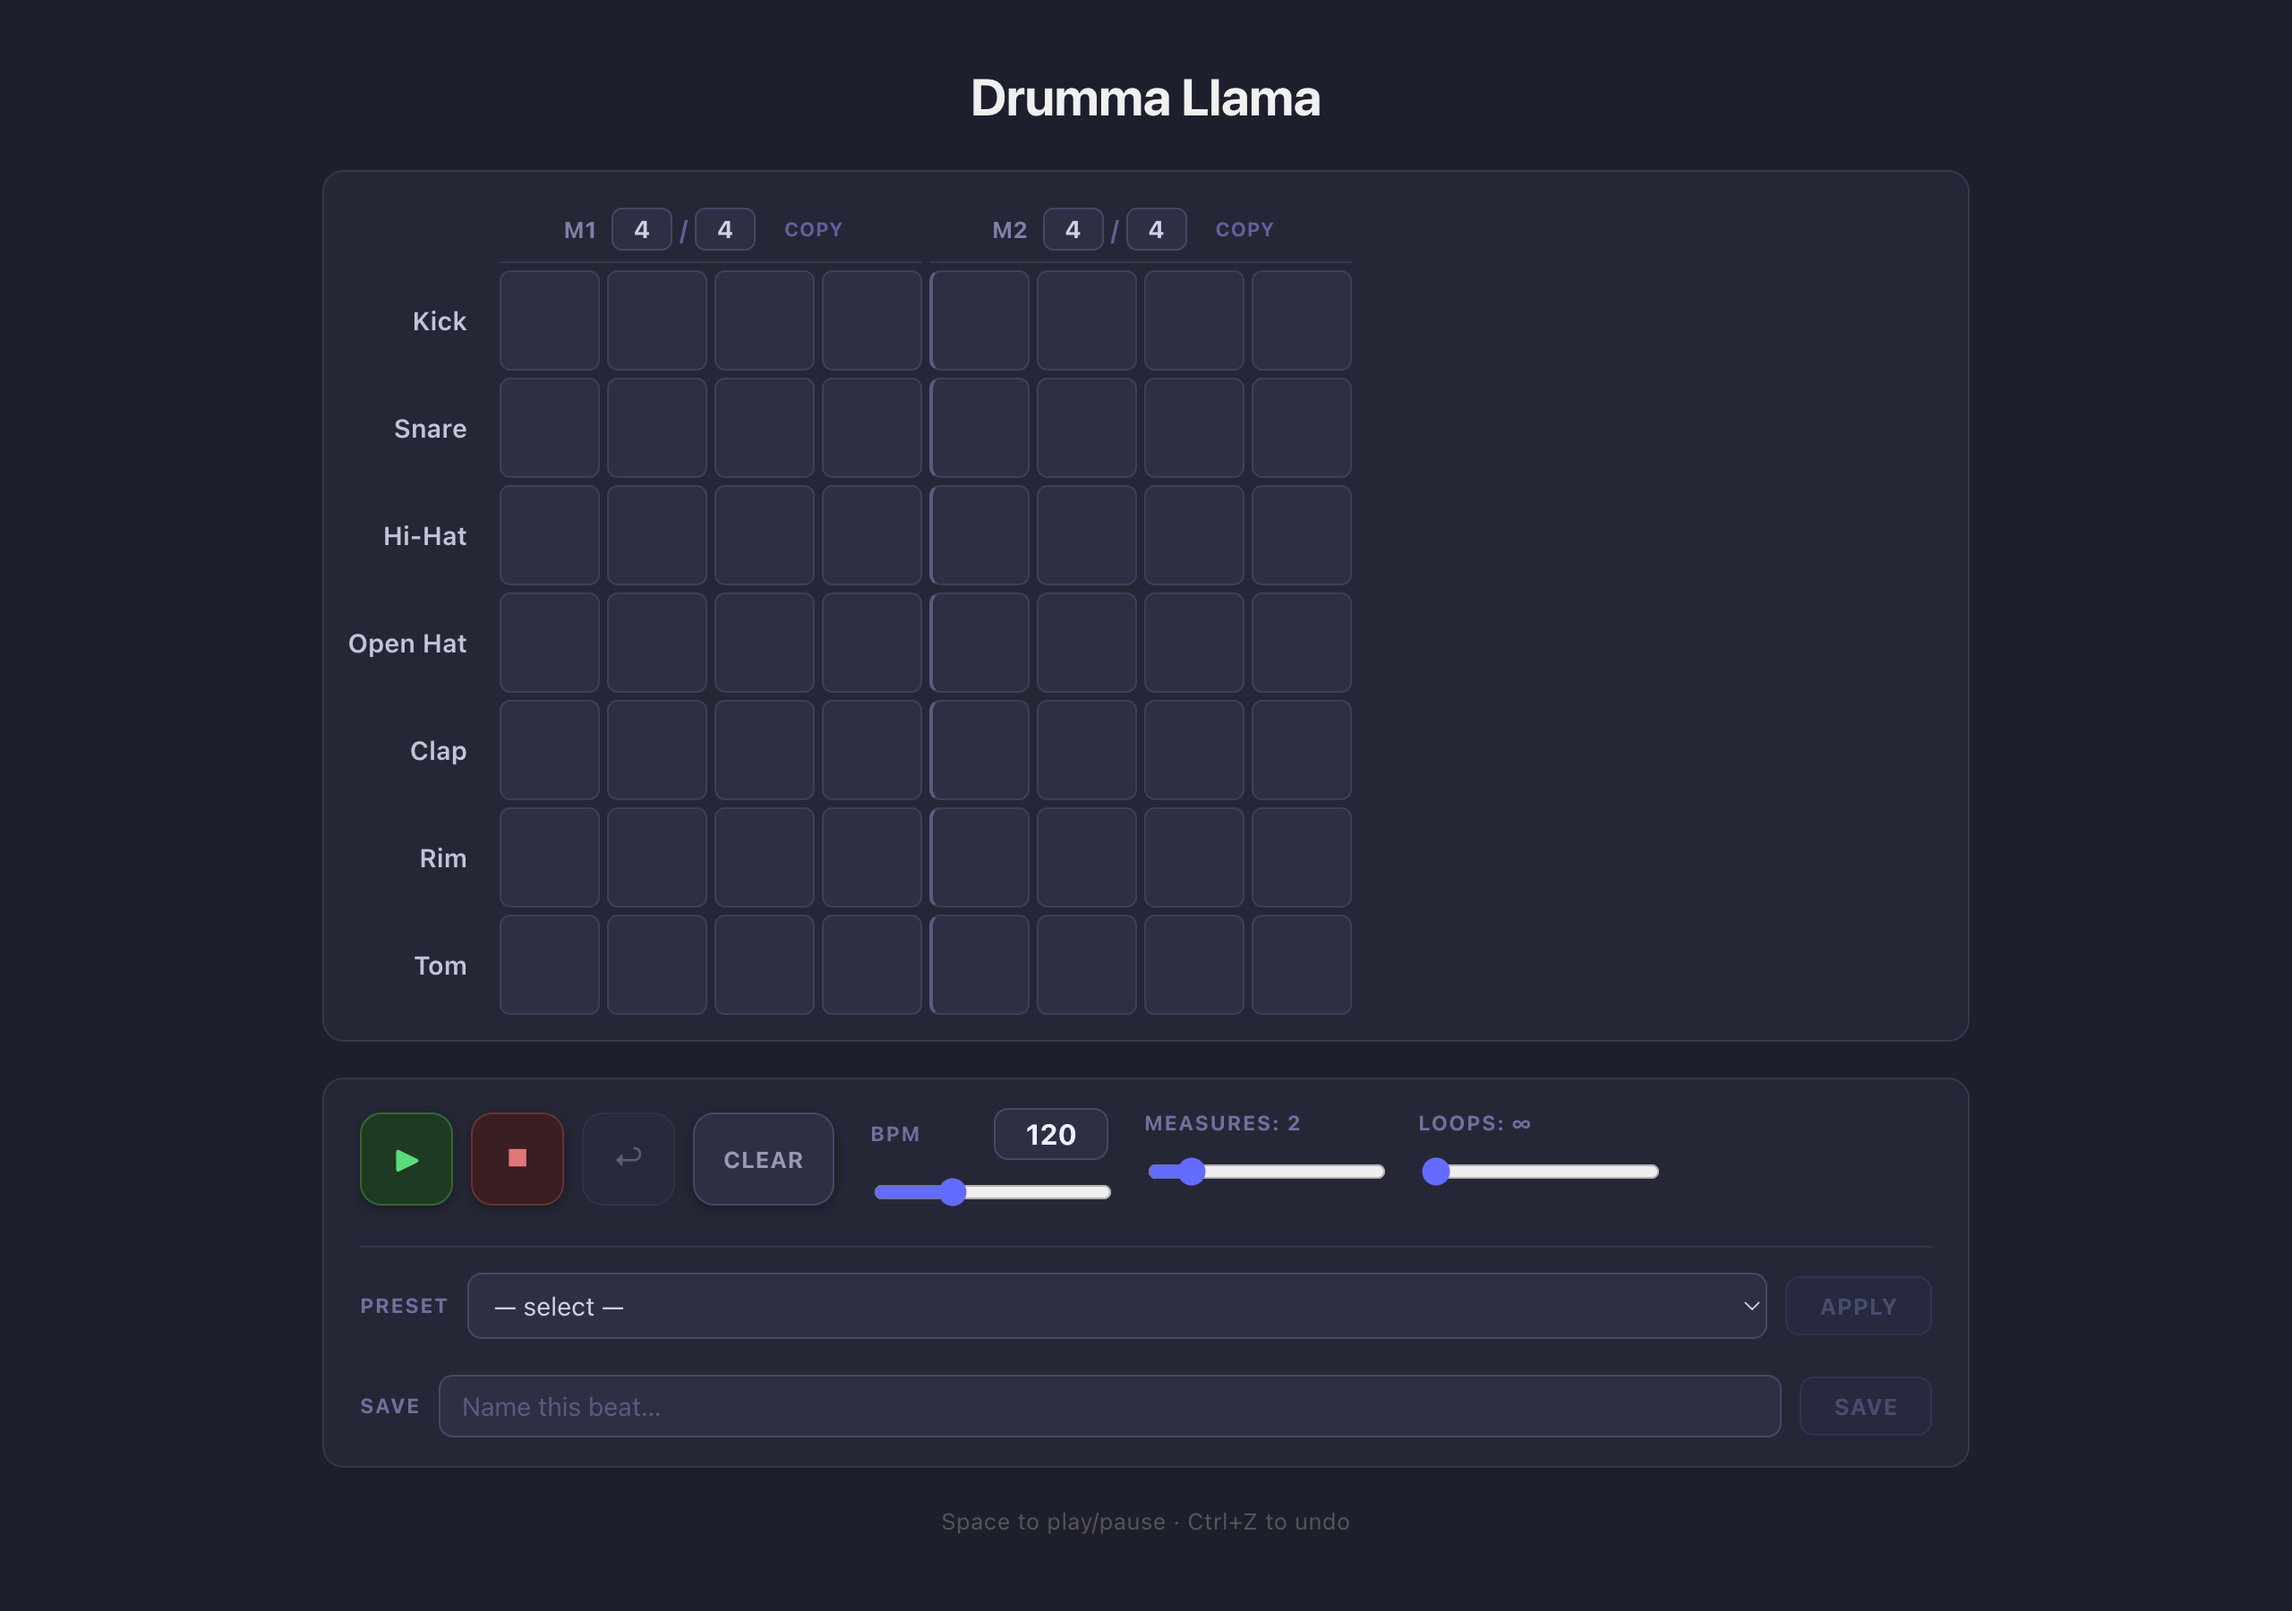
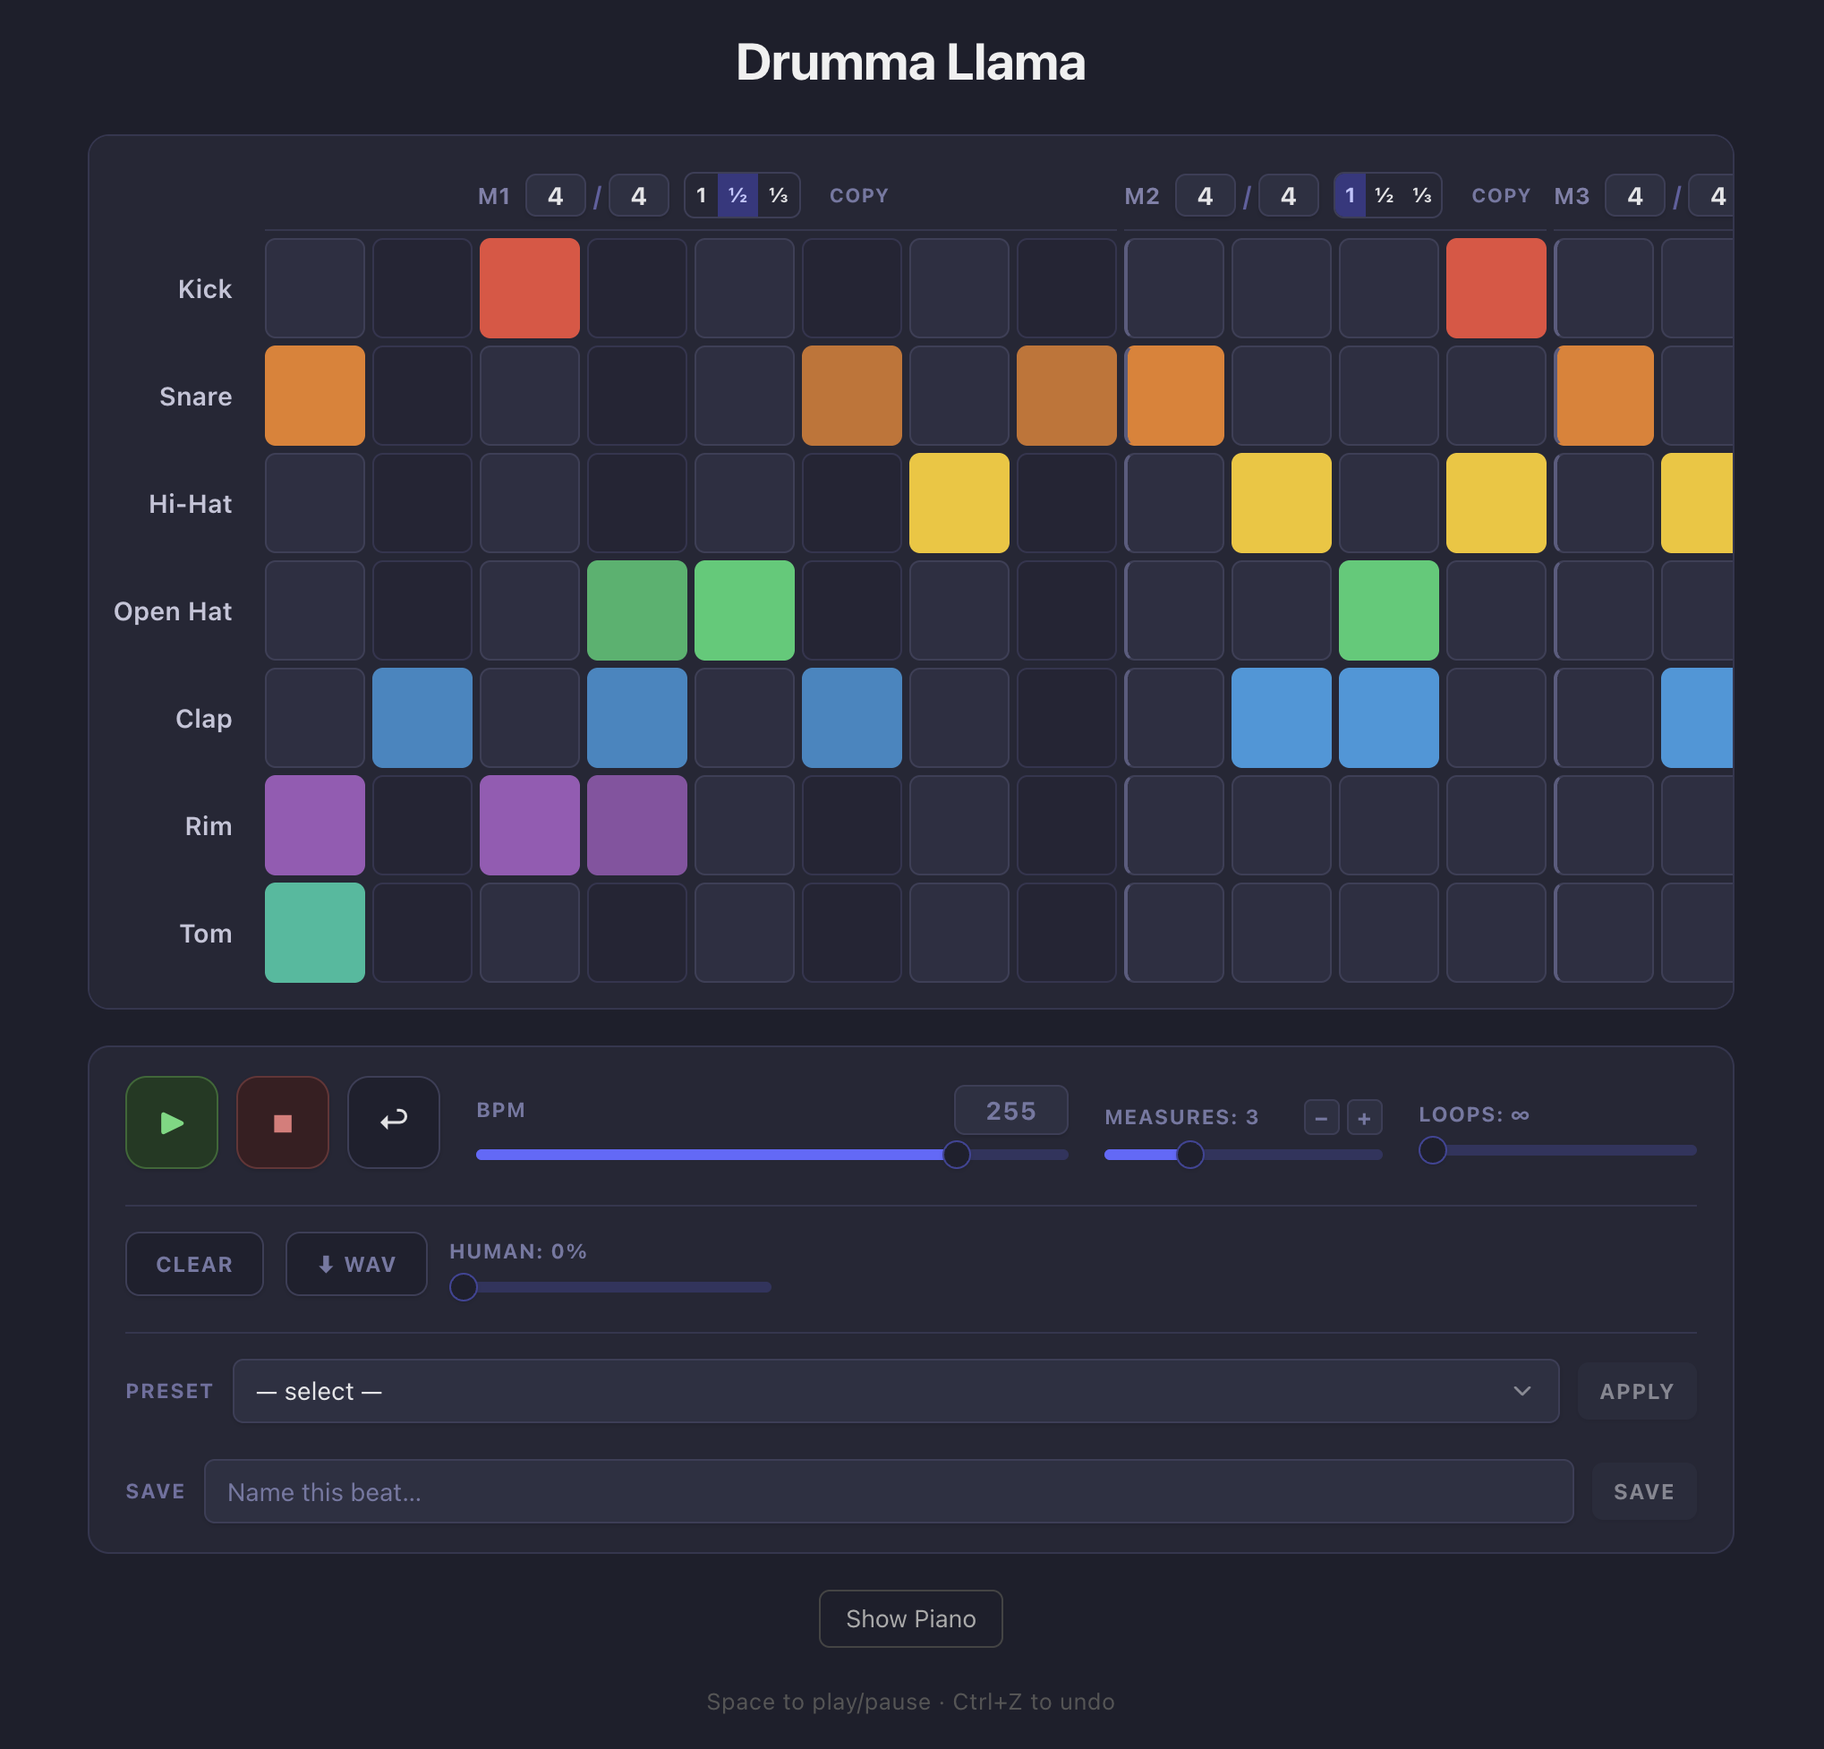
styling sliders, updating screenshot

diff --git a/src/components/TransportControls/TransportControls.tsx b/src/components/TransportControls/TransportControls.tsx
@@ -136,26 +136,10 @@ export function TransportControls({
         >
           ↩
         </Button>
-        <Button
-          variant="outline"
-          className="h-[52px] rounded-xl px-4 text-xs font-bold uppercase tracking-wider text-muted-foreground"
-          onClick={() => dispatch({ type: 'CLEAR_PATTERN' })}
-        >
-          Clear
-        </Button>
-        <Button
-          variant="outline"
-          className="h-[52px] rounded-xl px-4 text-xs font-bold uppercase tracking-wider text-muted-foreground"
-          onClick={() => { void handleExport(); }}
-          disabled={exporting}
-          title="Download drum loop as WAV"
-        >
-          {exporting ? '⏳' : '⬇ WAV'}
-        </Button>
       </div>
 
       <div className="transport-controls-group">
-        <div className="flex flex-col gap-2 flex-1 min-w-0">
+        <div className="flex flex-col gap-2 flex-1 min-w-0 max-sm:basis-full">
           <Label className="text-[0.72rem] text-muted-foreground font-bold uppercase tracking-wider">
             <span className="flex items-center justify-between">
               BPM
@@ -186,37 +170,69 @@ export function TransportControls({
           />
         </div>
 
-        <div className="flex flex-col gap-2 flex-1 min-w-0">
-          <Label className="text-[0.72rem] text-muted-foreground font-bold uppercase tracking-wider">
-            Measures: {measures.length}
-          </Label>
-          <Slider
-            min={1}
-            max={MAX_MEASURES}
-            step={1}
-            value={[measures.length]}
-            onValueChange={([v]) =>
-              dispatch({ type: 'SET_MEASURE_COUNT', count: v })
-            }
-          />
-        </div>
+        <div className="flex flex-1 min-w-0 max-sm:basis-full gap-5">
+          <div className="flex flex-col gap-2 flex-1 min-w-0">
+            <Label className="text-[0.72rem] text-muted-foreground font-bold uppercase tracking-wider flex items-center justify-between">
+              Measures: {measures.length}
+              <span className="flex gap-1">
+                <button
+                  className="w-5 h-5 rounded text-xs leading-none bg-secondary border border-border text-muted-foreground hover:text-foreground disabled:opacity-30"
+                  onClick={() => dispatch({ type: 'SET_MEASURE_COUNT', count: measures.length - 1 })}
+                  disabled={measures.length <= 1}
+                >−</button>
+                <button
+                  className="w-5 h-5 rounded text-xs leading-none bg-secondary border border-border text-muted-foreground hover:text-foreground disabled:opacity-30"
+                  onClick={() => dispatch({ type: 'SET_MEASURE_COUNT', count: measures.length + 1 })}
+                  disabled={measures.length >= MAX_MEASURES}
+                >+</button>
+              </span>
+            </Label>
+            <Slider
+              min={1}
+              max={MAX_MEASURES}
+              step={1}
+              value={[measures.length]}
+              onValueChange={([v]) =>
+                dispatch({ type: 'SET_MEASURE_COUNT', count: v })
+              }
+            />
+          </div>
 
-        <div className="flex flex-col gap-2 flex-1 min-w-0">
-          <Label className="text-[0.72rem] text-muted-foreground font-bold uppercase tracking-wider">
-            Loops: {loopCount === 0 ? '∞' : loopCount}
-          </Label>
-          <Slider
-            min={0}
-            max={16}
-            step={1}
-            value={[loopCount]}
-            onValueChange={([v]) =>
-              dispatch({ type: 'SET_LOOP_COUNT', loopCount: v })
-            }
-          />
+          <div className="flex flex-col gap-2 flex-1 min-w-0">
+            <Label className="text-[0.72rem] text-muted-foreground font-bold uppercase tracking-wider">
+              Loops: {loopCount === 0 ? '∞' : loopCount}
+            </Label>
+            <Slider
+              min={0}
+              max={16}
+              step={1}
+              value={[loopCount]}
+              onValueChange={([v]) =>
+                dispatch({ type: 'SET_LOOP_COUNT', loopCount: v })
+              }
+            />
+          </div>
         </div>
+      </div>
 
-        <div className="flex flex-col gap-2 flex-1 min-w-0">
+      <div className="secondary-controls-row">
+        <Button
+          variant="outline"
+          className="h-9 rounded-lg px-4 text-xs font-bold uppercase tracking-wider text-muted-foreground"
+          onClick={() => dispatch({ type: 'CLEAR_PATTERN' })}
+        >
+          Clear
+        </Button>
+        <Button
+          variant="outline"
+          className="h-9 rounded-lg px-4 text-xs font-bold uppercase tracking-wider text-muted-foreground"
+          onClick={() => { void handleExport(); }}
+          disabled={exporting}
+          title="Download drum loop as WAV"
+        >
+          {exporting ? '⏳' : '⬇ WAV'}
+        </Button>
+        <div className="flex flex-col gap-2 min-w-0 w-[180px]">
           <Label className="text-[0.72rem] text-muted-foreground font-bold uppercase tracking-wider">
             Human: {humanize}%
           </Label>

diff --git a/src/components/TransportControls/TransportControls.css b/src/components/TransportControls/TransportControls.css
@@ -16,10 +16,20 @@
 
 .transport-controls-group {
   display: flex;
+  flex-wrap: wrap;
   align-items: flex-end;
   gap: 20px;
   flex: 1;
   min-width: 0;
+}
+
+.secondary-controls-row {
+  display: flex;
+  align-items: center;
+  gap: 12px;
+  flex: 0 0 100%;
+  padding-top: 14px;
+  border-top: 1px solid #353650;
 }
 
 .preset-row {

diff --git a/README.md b/README.md
@@ -1,5 +1,7 @@
 # 🥁 Drumma Llama
 
+[https://drummallama.com/](https://drummallama.com/)
+
 > A step sequencer that really knows how to **hit** it.
 
 ![Drumma Llama screenshot](public/screenshot.png)
